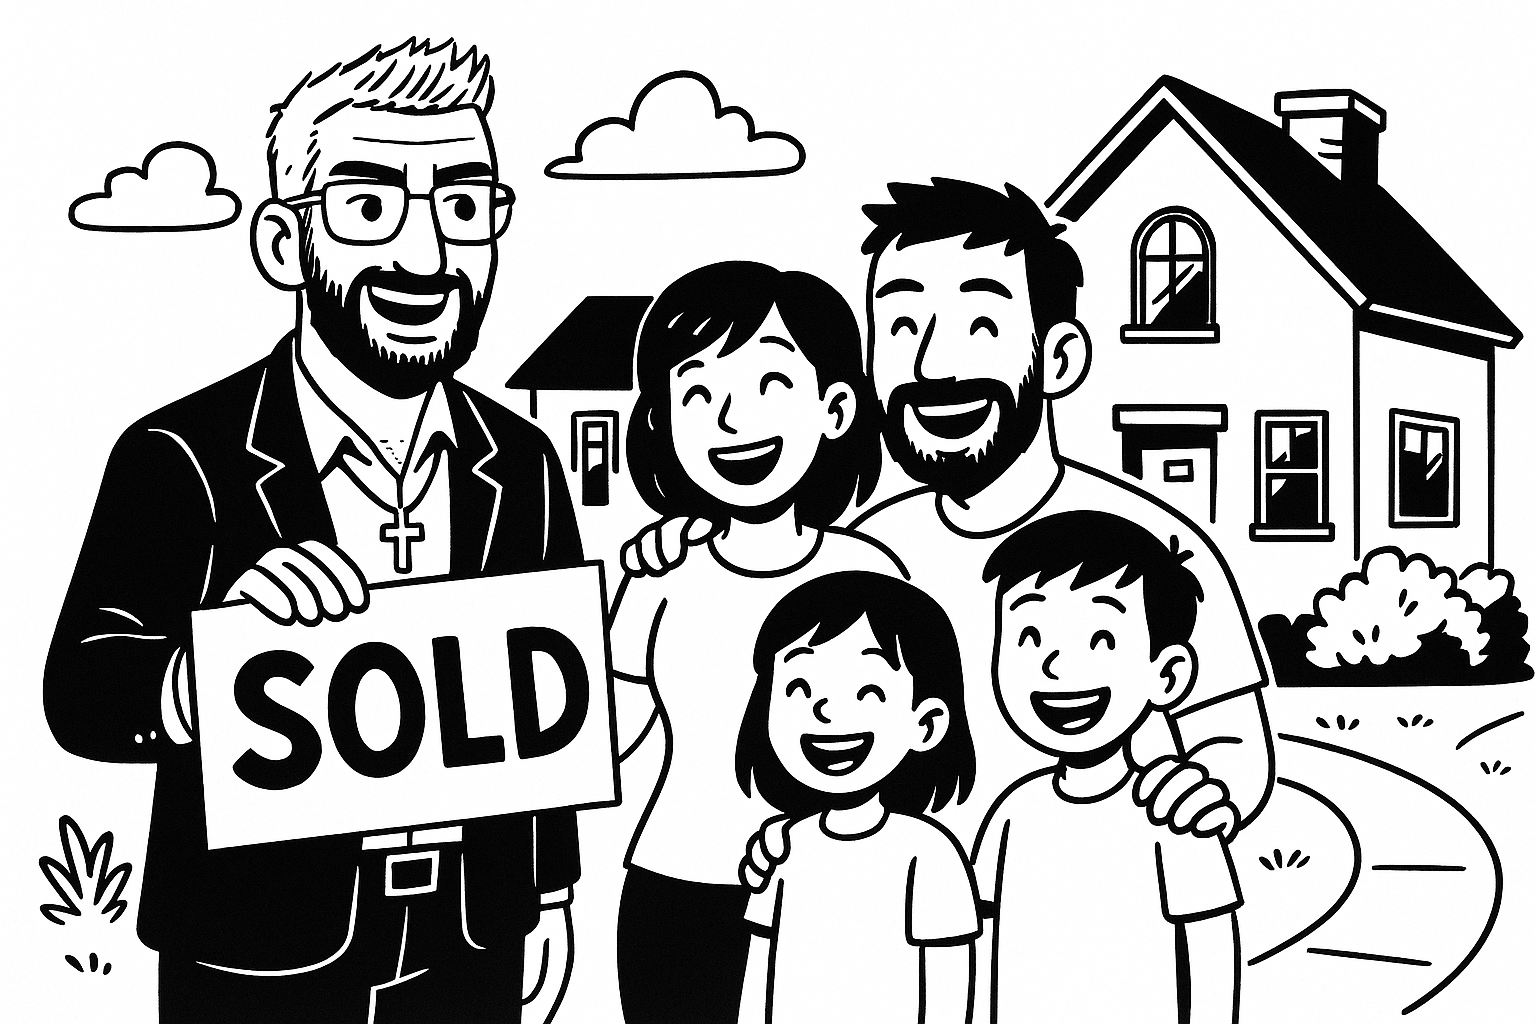
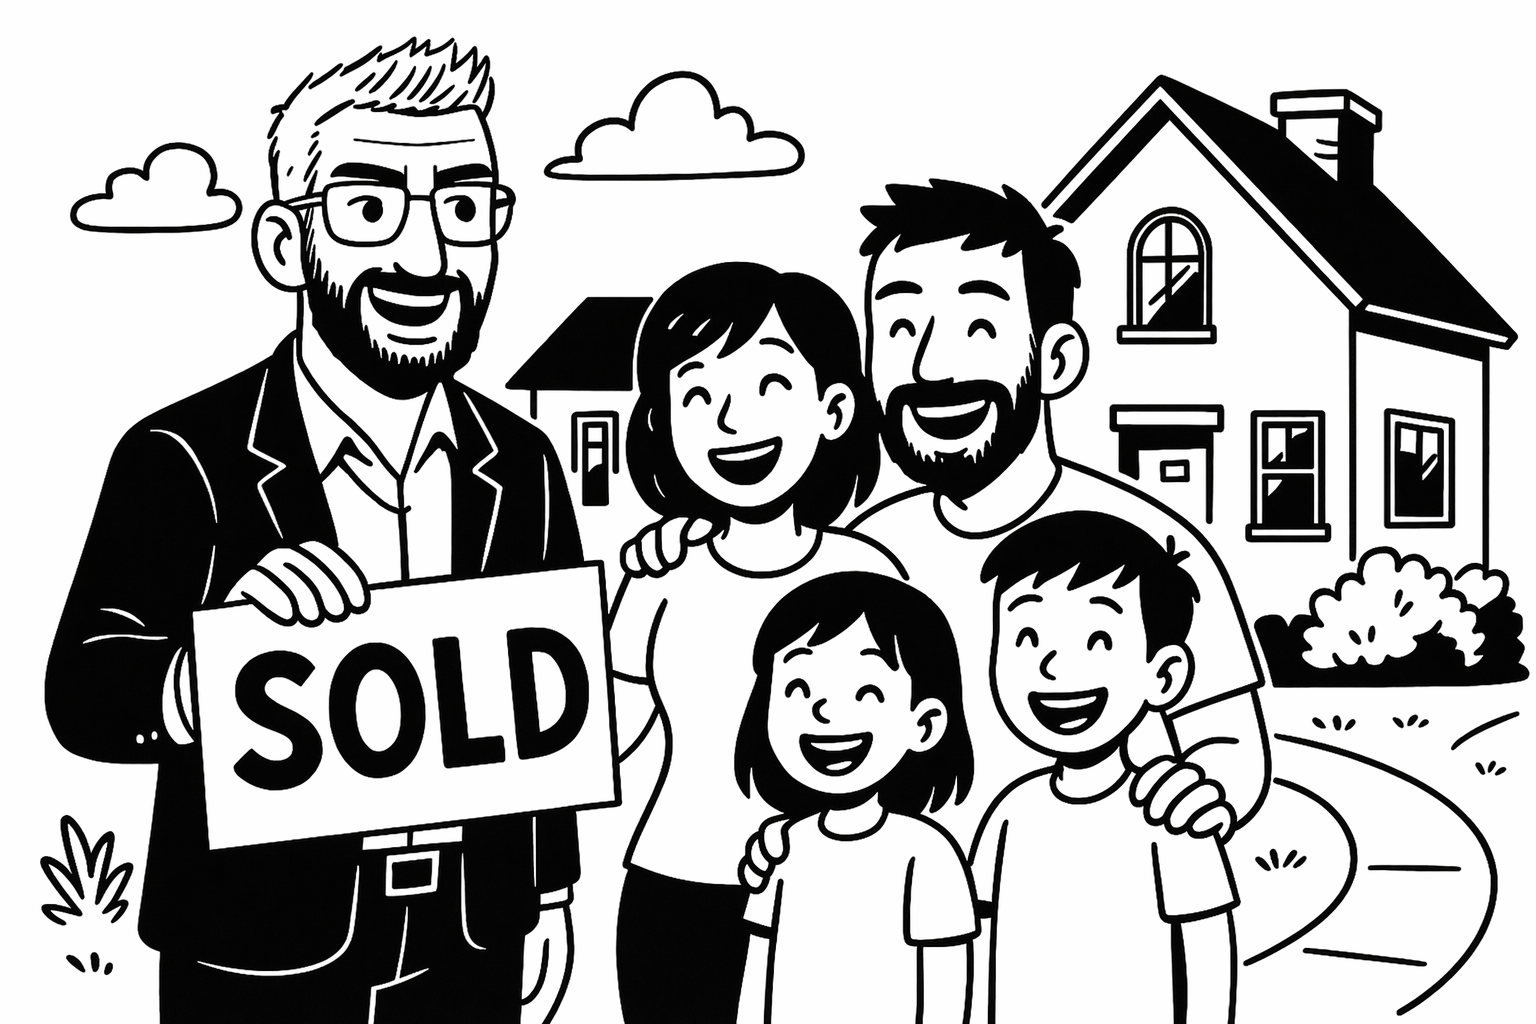
Refine homepage feature imagery

diff --git a/src/lib/sections/Features.svelte b/src/lib/sections/Features.svelte
@@ -4,7 +4,7 @@
 	import image from '../assets/ivrea.webp';
 	import image2 from '../assets/consulenze.webp';
 	import image3 from '../assets/people.webp';
-	import image4 from '../assets/sold.webp';
+	import image4 from '../assets/sold.png';
 	import { scrollReveal, tilt3d } from '$lib/utils/scroll-reveal';
 
 	interface FeatureProps {
